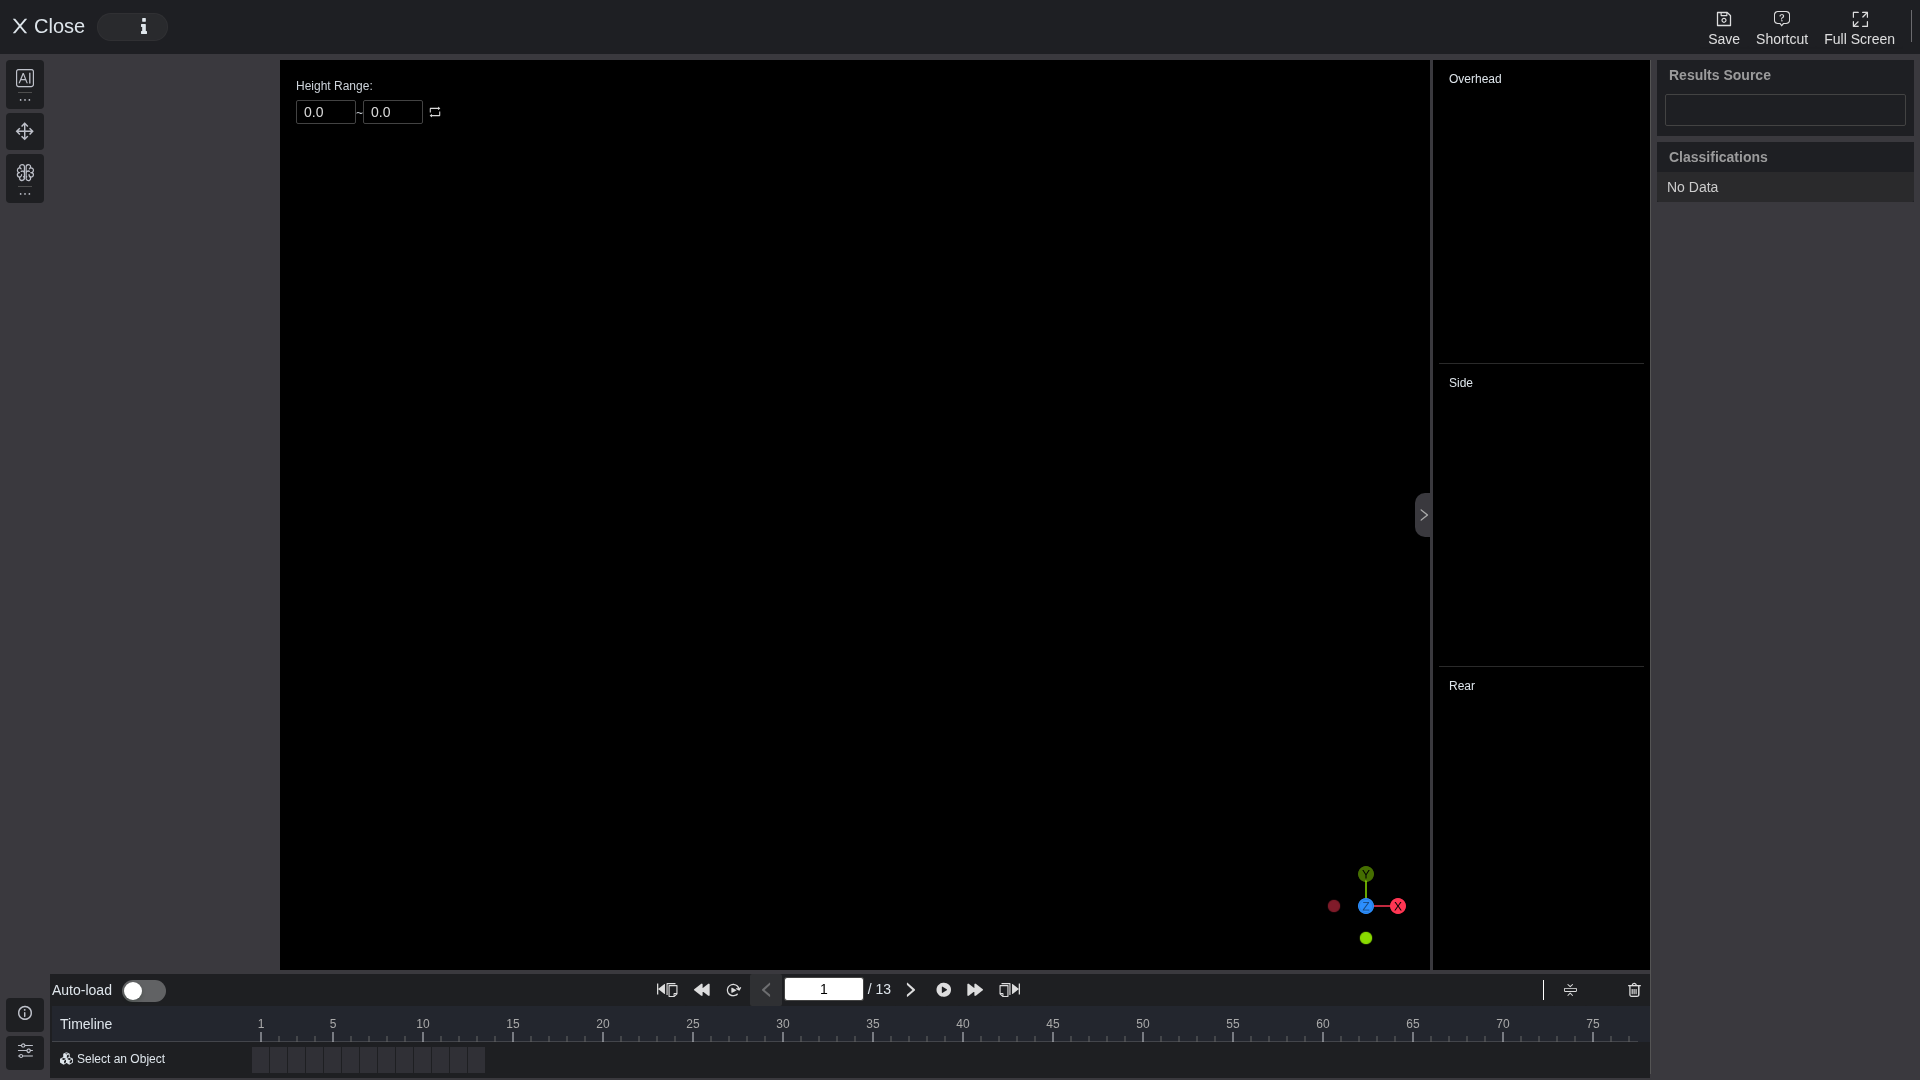
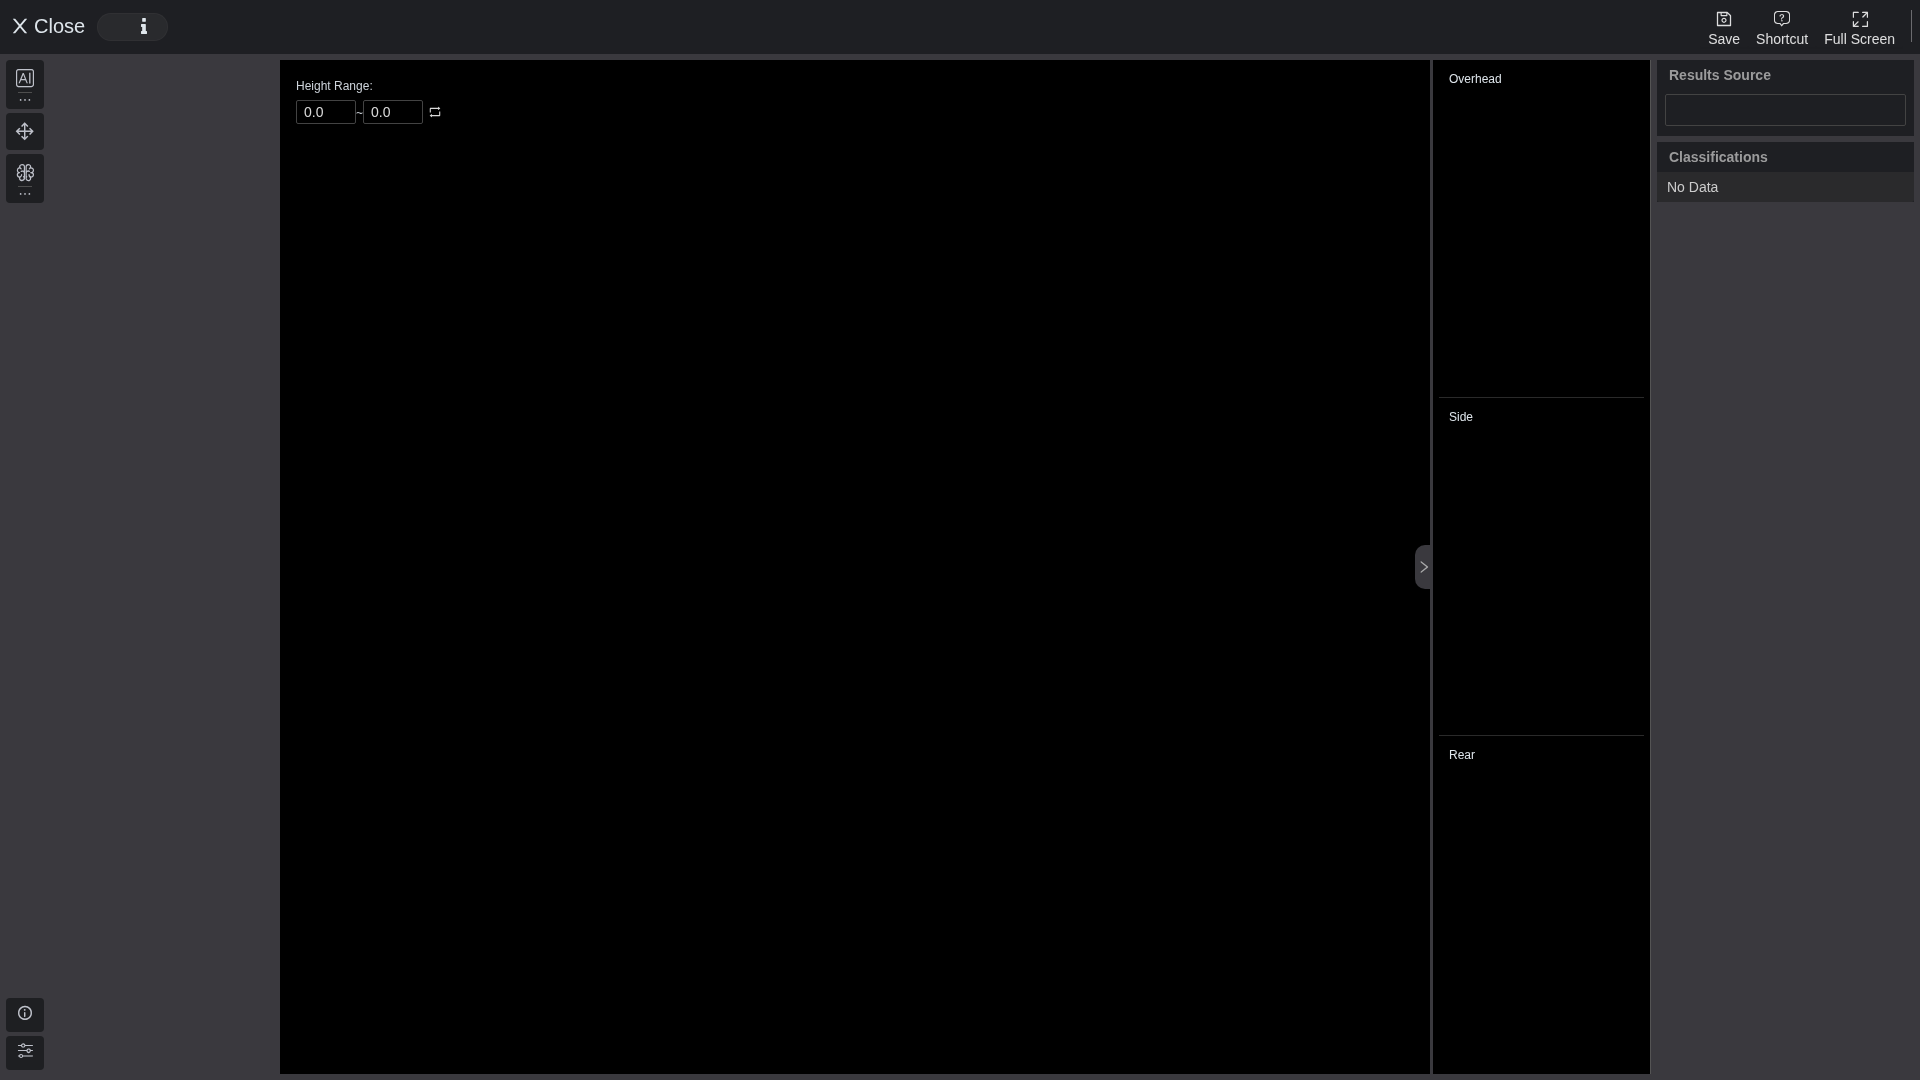
Implement normalization for tracking HTTP response and add unit tests
- Introduced a new method to normalize Flask-style tracking JSON responses into ApiResult, addressing issues with null values in the code field.
- Added unit tests for the normalization method to ensure correct parsing of tracking data.
- Updated the DataManager to handle model result codes more robustly.
- Enhanced documentation for tracking setup to clarify usage instructions and error handling.

Changed region(s): [[0.0, 0.8861, 0.875, 1.0], [0.7188, 0.4583, 0.75, 0.55], [0.6875, 0.7944, 0.75, 0.8556]]

diff --git a/frontend/pc-tool/src/components/TimeLine/toolTipMerge.vue b/frontend/pc-tool/src/components/TimeLine/toolTipMerge.vue
@@ -12,11 +12,12 @@
                 <a-button size="small" style="margin-left: 8px" @click="onCancel">{{ editor.lang('btnCancelText') }}</a-button>
             </div>
             <div class="track-tooltip-content" v-else>
-                <div class="track-tooltip-title">{{ editor.lang('mergeTo') }} / {{ editor.lang('mergeFrom') }}</div>
+                <div class="track-tooltip-title">{{ editor.lang('mergeTitle') }}</div>
+                <div class="track-tooltip-help">{{ editor.lang('mergeHelp') }}</div>
                 <a-select
                     v-model:value="selectedTrackId"
                     style="width: 200px"
-                    :placeholder="editor.lang('selectTrack')"
+                    :placeholder="editor.lang('selectOtherTrack')"
                     size="small"
                 >
                     <a-select-option
@@ -29,7 +30,7 @@
                 </a-select>
                 <div style="margin-top: 8px">
                     <a-button size="small" :disabled="!selectedTrackId" @click="() => startMerge('MergeTo')">
-                        {{ editor.lang('mergeTo') }}
+                        {{ editor.lang('mergeCurrentToSelected') }}
                     </a-button>
                     <a-button
                         size="small"
@@ -37,8 +38,11 @@
                         :disabled="!selectedTrackId"
                         @click="() => startMerge('MergeFrom')"
                     >
-                        {{ editor.lang('mergeFrom') }}
+                        {{ editor.lang('mergeSelectedToCurrent') }}
                     </a-button>
+                </div>
+                <div class="track-tooltip-help track-tooltip-footnote">
+                    {{ editor.lang('mergeCurrentHint') }}
                 </div>
             </div>
         </template>
@@ -48,6 +52,7 @@
                 <template #icon>
                     <i class="iconfont icon-hebing" />
                 </template>
+                <span class="track-tooltip-button-text">{{ editor.lang('mergeButton') }}</span>
             </a-button>
         </a-tooltip>
     </a-popover>
@@ -124,5 +129,24 @@
             margin-bottom: 8px;
             font-size: 12px;
         }
+
+        .track-tooltip-help {
+            max-width: 220px;
+            margin-bottom: 8px;
+            color: #aaa;
+            font-size: 12px;
+            line-height: 18px;
+            white-space: normal;
+        }
+
+        .track-tooltip-footnote {
+            margin-top: 8px;
+            margin-bottom: 0;
+        }
+    }
+
+    .track-tooltip-button-text {
+        margin-left: 4px;
+        font-size: 12px;
     }
 </style>

diff --git a/frontend/pc-tool/src/common/DataManager.ts b/frontend/pc-tool/src/common/DataManager.ts
@@ -64,7 +64,12 @@ export default class DataManager extends BaseDataManager {
                             let modelResult = info.modelResult;
                             let objects = (modelResult.objects || []) as IObject[];
 
-                            if (modelResult.code !== 'OK') {
+                            const code = modelResult.code;
+                            const resultOk =
+                                code == null ||
+                                code === '' ||
+                                code === 'OK';
+                            if (!resultOk) {
                                 dataMeta.model = undefined;
                                 if (dataMeta.id === curData.id)
                                     editor.showMsg('error', editor.lang('model-run-error'));
@@ -73,9 +78,12 @@ export default class DataManager extends BaseDataManager {
 
                             if (objects.length > 0) {
                                 model.state = 'complete';
-                                objects = objects.filter(
-                                    (e) => e.confidence && e.confidence >= 0.5,
-                                );
+                                // Keep objects when confidence is missing (e.g. tracking); only drop low scores when present.
+                                objects = objects.filter((e) => {
+                                    const c = (e as any).confidence;
+                                    if (c == null || c === '') return true;
+                                    return Number(c) >= 0.5;
+                                });
                                 editor.modelManager.modelMap.set(dataMeta.id, objects);
                             } else {
                                 dataMeta.model = undefined;

diff --git a/frontend/pc-tool/src/packages/pc-editor/lang/zh.ts b/frontend/pc-tool/src/packages/pc-editor/lang/zh.ts
@@ -18,6 +18,9 @@ const zh: ILocale = {
     'track-error': '追踪错误',
     'track-no-source': '无追踪对象',
     'track-ok': '追踪成功',
+    /** 勿用左侧「模型」跑 LiDAR 跟踪；应使用时间轴「跟踪」→「模型」 */
+    trackFromTimelineTip:
+        'LiDAR 跟踪请在底部时间轴：点「跟踪」图标（合并左侧），模式选「模型」后执行，勿用左侧工具栏的「模型」按钮。',
     'copy-ok': '复制成功',
 
     // info
@@ -60,10 +63,16 @@ const zh: ILocale = {
     copyRight1: '向右复制一帧(Alt+→)',
 
     mergeTitle: '合并轨迹',
+    mergeButton: '合并',
+    mergeHelp: '先选择另一条轨迹，再选择合并方向。',
+    mergeCurrentHint: '当前 = 你正在选中的这条轨迹',
+    mergeCurrentToSelected: '当前 → 所选',
+    mergeSelectedToCurrent: '所选 → 当前',
     mergeTo: '合并到',
     mergeFrom: '合并从',
-    mergeConfirm: '确认合并?',
+    mergeConfirm: '确认合并这两条轨迹?',
     selectTrack: '选择轨迹',
+    selectOtherTrack: '选择另一条轨迹',
     successMerge: '合并成功',
     errorMerge: '合并失败',
     warnClassTypeDiff: '标签类型不一致',

diff --git a/frontend/pc-tool/src/packages/pc-editor/lang/en.ts b/frontend/pc-tool/src/packages/pc-editor/lang/en.ts
@@ -17,6 +17,8 @@ const en = {
     'track-no-source': 'No Tracking Objects',
     'track-error': 'Track Error',
     'track-ok': 'Track Success',
+    trackFromTimelineTip:
+        'For LiDAR tracking, use the bottom timeline: open Track (icon left of Merge), choose mode “Model”, then Run — not the left toolbar Model button.',
     'copy-ok': 'Copy Success',
 
     // info
@@ -60,10 +62,16 @@ const en = {
     copyRight1: 'Copy one frame forward (Alt+→)',
 
     mergeTitle: 'Merge Track',
+    mergeButton: 'Merge',
+    mergeHelp: 'Select another track, then choose the merge direction.',
+    mergeCurrentHint: 'Current = the track you are editing now',
+    mergeCurrentToSelected: 'Current → Selected',
+    mergeSelectedToCurrent: 'Selected → Current',
     mergeTo: 'Merge To',
     mergeFrom: 'Merge From',
-    mergeConfirm: 'Confirm merge?',
+    mergeConfirm: 'Merge these two tracks?',
     selectTrack: 'Select track',
+    selectOtherTrack: 'Select another track',
     successMerge: 'Merge successfully',
     errorMerge: 'Merge failed',
     warnClassTypeDiff: 'Class type mismatch',

diff --git a/frontend/pc-tool/src/components/Tool/useTool.ts b/frontend/pc-tool/src/components/Tool/useTool.ts
@@ -120,6 +120,10 @@ export default function useTool() {
         let bsState = editor.bsState;
         let data = toolState.frames[toolState.frameIndex];
         let model = toolState.models.find((e) => e.name === modelConfig.model) as IModel;
+        if (!model) {
+            editor.showMsg('warning', 'Please choose Model');
+            return;
+        }
         const resultFilterParam = {
             minConfidence: 0.5,
             maxConfidence: 1,
@@ -142,6 +146,10 @@ export default function useTool() {
             resultFilterParam.minConfidence = modelConfig.confidence[0];
             resultFilterParam.maxConfidence = modelConfig.confidence[1];
             resultFilterParam.classes = selectedClasses;
+        }
+        if (model.code === 'LIDAR_TRACKING') {
+            editor.showMsg('warning', editor.lang('trackFromTimelineTip'));
+            return;
         }
         let config = {
             datasetId: bsState.datasetId,

diff --git a/frontend/pc-tool/src/components/TimeLine/toolTipTrack.vue b/frontend/pc-tool/src/components/TimeLine/toolTipTrack.vue
@@ -37,6 +37,7 @@
                 <template #icon>
                     <i class="iconfont icon-guiji" />
                 </template>
+                <span class="track-tooltip-button-text">{{ editor.lang('trackTitle') }}</span>
             </a-button>
         </a-tooltip>
     </a-popover>
@@ -90,5 +91,10 @@
                 margin-right: 8px;
             }
         }
+    }
+
+    .track-tooltip-button-text {
+        margin-left: 4px;
+        font-size: 12px;
     }
 </style>

diff --git a/backend/src/main/java/ai/basic/x1/adapter/port/rpc/PointCloudTrackingModelHttpCaller.java b/backend/src/main/java/ai/basic/x1/adapter/port/rpc/PointCloudTrackingModelHttpCaller.java
@@ -3,7 +3,9 @@ package ai.basic.x1.adapter.port.rpc;
 import ai.basic.x1.adapter.dto.ApiResult;
 import ai.basic.x1.adapter.port.rpc.dto.PointCloudTrackingReqDTO;
 import ai.basic.x1.adapter.port.rpc.dto.PointCloudTrackingRespDTO;
+import ai.basic.x1.usecase.exception.UsecaseCode;
 import ai.basic.x1.usecase.exception.UsecaseException;
+import cn.hutool.core.collection.CollUtil;
 import cn.hutool.core.date.StopWatch;
 import cn.hutool.core.lang.TypeReference;
 import cn.hutool.http.ContentType;
@@ -11,6 +13,8 @@ import cn.hutool.http.HttpRequest;
 import cn.hutool.http.HttpResponse;
 import cn.hutool.http.HttpStatus;
 import cn.hutool.http.HttpUtil;
+import cn.hutool.json.JSONArray;
+import cn.hutool.json.JSONObject;
 import cn.hutool.json.JSONUtil;
 import lombok.extern.slf4j.Slf4j;
 import org.springframework.stereotype.Component;
@@ -33,13 +37,37 @@ public class PointCloudTrackingModelHttpCaller {
             log.info(String.format("call trackingModelService took: %dms,req:%s ,resp:%s",
                     stopWatch.getLastTaskTimeMillis(), requestBody, httpResponse.body()));
             if (httpResponse.getStatus() == HttpStatus.HTTP_OK) {
-                return JSONUtil.toBean(httpResponse.body(), new TypeReference<>() {
-                }, false);
+                return normalizeTrackingHttpBody(httpResponse.body());
             }
             throw new UsecaseException("trackingModel run error!");
         } catch (Throwable throwable) {
             log.error("call tracking-model service error.", throwable);
             throw new UsecaseException("trackingModel run error!");
         }
+    }
+
+    /**
+     * Normalizes Flask-style tracking JSON ({@code "code":"OK"}, string enums) into {@link ApiResult}
+     * for downstream retry/converter logic. Hutool {@code toBean} often leaves {@code code} null
+     * and/or drops the generic {@code data} list.
+     */
+    static ApiResult<List<PointCloudTrackingRespDTO>> normalizeTrackingHttpBody(String body) {
+        JSONObject root = JSONUtil.parseObj(body);
+        String codeStr = root.getStr("code");
+        JSONArray dataArr = root.getJSONArray("data");
+
+        ApiResult<List<PointCloudTrackingRespDTO>> apiResult = JSONUtil.toBean(body, new TypeReference<>() {
+        }, false);
+        if (apiResult == null) {
+            apiResult = new ApiResult<>();
+        }
+        if (UsecaseCode.OK.getCode().equalsIgnoreCase(codeStr)) {
+            apiResult.setCode(UsecaseCode.OK);
+        }
+        if (CollUtil.isEmpty(apiResult.getData()) && dataArr != null && !dataArr.isEmpty()) {
+            List<PointCloudTrackingRespDTO> list = JSONUtil.toList(dataArr, PointCloudTrackingRespDTO.class);
+            apiResult.setData(list);
+        }
+        return apiResult;
     }
 }

diff --git a/backend/src/test/java/ai/basic/x1/adapter/port/rpc/PointCloudTrackingModelHttpCallerTest.java b/backend/src/test/java/ai/basic/x1/adapter/port/rpc/PointCloudTrackingModelHttpCallerTest.java
@@ -1,0 +1,35 @@
+package ai.basic.x1.adapter.port.rpc;
+
+import ai.basic.x1.adapter.dto.ApiResult;
+import ai.basic.x1.adapter.port.rpc.dto.PointCloudTrackingRespDTO;
+import ai.basic.x1.usecase.exception.UsecaseCode;
+import org.junit.jupiter.api.Test;
+
+import java.util.List;
+
+import static org.junit.jupiter.api.Assertions.assertEquals;
+import static org.junit.jupiter.api.Assertions.assertNotNull;
+
+class PointCloudTrackingModelHttpCallerTest {
+
+    /** Same shape as {@code deploy/point-cloud-object-tracking/app.py} success payload. */
+    private static final String FLASK_OK_BODY =
+            "{\"code\":\"OK\",\"message\":\"\",\"data\":[{\"id\":1002,\"code\":\"OK\",\"message\":\"\","
+                    + "\"objects\":[{\"trackingId\":\"track-1\",\"label\":\"car\",\"confidence\":0.9,"
+                    + "\"x\":1.5,\"y\":2,\"z\":3,\"dimX\":4,\"dimY\":2,\"dimZ\":1.5,"
+                    + "\"rotX\":0,\"rotY\":0,\"rotZ\":0}]}]}";
+
+    @Test
+    void normalizeTrackingHttpBody_setsOkEnumAndParsesDataList() {
+        ApiResult<List<PointCloudTrackingRespDTO>> r =
+                PointCloudTrackingModelHttpCaller.normalizeTrackingHttpBody(FLASK_OK_BODY);
+        assertEquals(UsecaseCode.OK, r.getCode(), "Hutool often leaves code null for string OK in JSON");
+        assertNotNull(r.getData());
+        assertEquals(1, r.getData().size());
+        PointCloudTrackingRespDTO first = r.getData().get(0);
+        assertEquals("OK", first.getCode());
+        assertNotNull(first.getObjects());
+        assertEquals(1, first.getObjects().size());
+        assertEquals("track-1", first.getObjects().get(0).getTrackingId());
+    }
+}

diff --git a/docs/tracking-setup-and-usage.md b/docs/tracking-setup-and-usage.md
@@ -70,7 +70,18 @@ docker compose restart nginx
 
 ### 2.2 第二步：跟踪 / 检测模型（按需）
 
-按实际需求选择**一种**方式（不要无脑全起）：
+`docker compose --profile model up -d`（**不带服务名**）会同时拉起 3 个 model 服务。多数场景**不必全起**，原因如下：
+
+| 原因 | 说明 |
+|------|------|
+| **功能不重叠** | 做 LiDAR **跟踪**只需 `point-cloud-object-tracking`（8296）；两个**检测**服务是另一套能力（自动画 3D/2D 框预标注），与跟踪无关 |
+| **检测要 GPU** | `point-cloud-object-detection`、`image-object-detection` 配置了 `gpus: all`。无 GPU 或 toolkit 未配好时，容器会 **Exited / Restarting**，拖慢排障 |
+| **更占资源** | 检测镜像大，常驻会占显存和内存；只做跟踪时白占资源 |
+| **启动更慢** | 全起要拉 3 个大镜像，首次部署等待更长 |
+
+**什么时候可以全起？** 机器已按 [gpu-setup.md](gpu-setup.md) 配好 GPU，且确实要用**点云/图像自动检测预标注 + 模型跟踪**时，再用最后一条命令。
+
+按实际需求选择**一种**方式：
 
 ```bash
 # 仅「模型跟踪」— 不依赖 GPU，推荐大多数跟踪场景
@@ -293,6 +304,7 @@ docker compose --profile model up -d point-cloud-object-tracking backend
 
 | 现象 | 处理 |
 |------|------|
+| **Model Run Error**（左侧工具栏点「模型」） | **不要**在左侧选「Basic Lidar Object Tracking」再点模型：跟踪参数不对。应使用时间轴 **「跟踪」→ 模式选「模型」→ 执行**。后端已修复：跟踪 HTTP 返回 `"code":"OK"` 时 Hutool 可能未映射到枚举，导致误判失败（需重建 `backend`）。 |
 | 无「模型」选项 | 前端未用本地构建镜像，或 `noModelTrack: true` |
 | 追踪错误 | `docker compose logs point-cloud-object-tracking` |
 | 无追踪对象 | 未选中 3D 框 |
